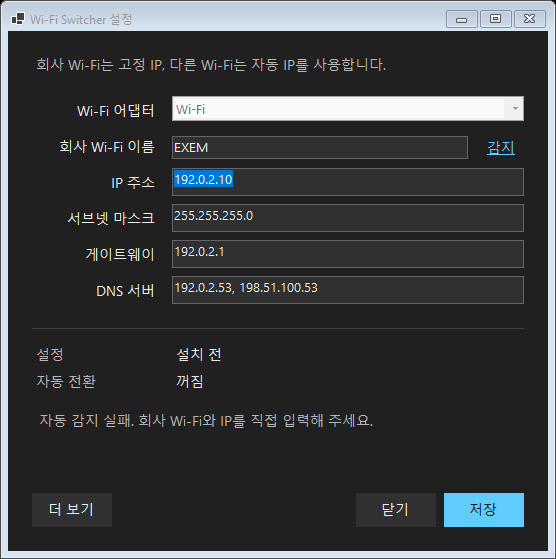
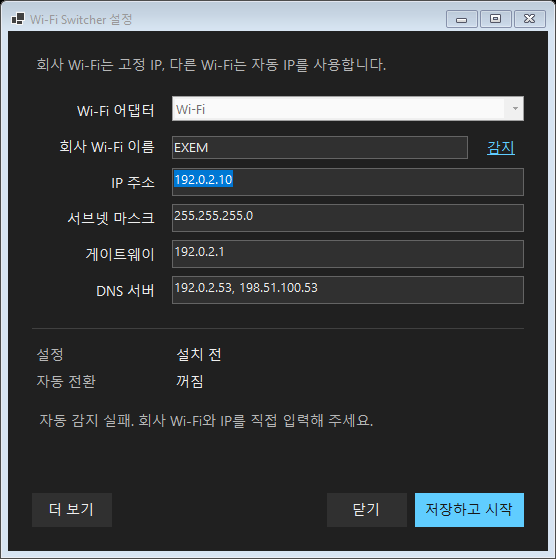
docs: 저장 후 자동 시작 화면과 시험판 해시 갱신

Changed region(s): [[0.6421, 0.8819, 0.9173, 0.9428]]

diff --git a/docs/INSTALL-GUIDE.html b/docs/INSTALL-GUIDE.html
@@ -14,7 +14,7 @@
 <p>이 가이드는 아래 이름의 <strong>Windows x64 시험판</strong>을 기준으로 합니다. HTML은 안내 파일이며 설치 파일은 별도로 필요합니다.</p><div class="filename">WifiProfileSwitcher-Setup-0.2.0-alpha.3.exe</div>
 <ol><li>만든 사람에게 직접 받았거나, 조직에서 승인한 전달 경로로 받은 파일인지 확인하세요.</li><li>파일 탐색기의 <strong>다운로드</strong> 폴더에 저장하세요. 압축을 풀거나 다른 프로그램을 설치할 필요는 없습니다.</li><li>회사 Wi-Fi에 연결하고 기존 고정 IP 설정으로 정상 연결되는 PC에서 시험하세요.</li></ol>
 <p class="small">현재 공개된 이전 릴리즈 ZIP은 설치 방법이 다릅니다. 이 가이드의 EXE와 혼동하지 마세요.</p>
-<details class="filecheck"><summary>선택: 명령어 없이 파일이 같은지 확인하기</summary><p>아래에서 EXE를 선택하면 브라우저 안에서 SHA-256을 계산합니다. 파일을 업로드하지 않습니다. 일치는 전달받은 파일이 개발자가 만든 파일과 같다는 뜻이며, 안전성 인증이나 회사의 실행 승인을 대신하지 않습니다.</p><label for="verify">확인할 EXE 파일</label><input id="verify" type="file" accept=".exe"><output id="hashResult" aria-live="polite"></output><p class="small">기준 크기: 100,674,395바이트 · 기준 SHA-256</p><div class="filename">a2da93b2d097fec4f81666730843729892a099d0cae36f0361009bef2fac776a</div></details>
+<details class="filecheck"><summary>선택: 명령어 없이 파일이 같은지 확인하기</summary><p>아래에서 EXE를 선택하면 브라우저 안에서 SHA-256을 계산합니다. 파일을 업로드하지 않습니다. 일치는 전달받은 파일이 개발자가 만든 파일과 같다는 뜻이며, 안전성 인증이나 회사의 실행 승인을 대신하지 않습니다.</p><label for="verify">확인할 EXE 파일</label><input id="verify" type="file" accept=".exe"><output id="hashResult" aria-live="polite"></output><p class="small">기준 SHA-256</p><div class="filename">c196fd665ad223cb74bdb94d6d1f7b9bc4a17cce6d83c5de4a7ec5375ba1ed8a</div></details>
 </section>
 <section id="edge"><span class="number">02 · 브라우저에서 파일을 저장하지 못할 때</span><h2>Edge에서 ‘유지’를 찾으세요</h2><p>“일반적으로 다운로드되지 않습니다”처럼 <strong>알려지지 않은 파일에 대한 평판 경고</strong>가 표시되고, 파일 출처와 실행 승인을 확인한 경우의 절차입니다. 경고가 없으면 <a href="#run">다음 단계</a>로 넘어가세요.</p>
[1 lines of base64/hex data omitted]
@@ -56,5 +56,5 @@ document.querySelectorAll('.zoom').forEach(b=>b.addEventListener('click',()=>{co
 document.querySelector('#closeImage').onclick=()=>dialog.close();
 dialog.addEventListener('click',e=>{if(e.target===dialog){const r=dialog.getBoundingClientRect();if(e.clientX<r.left||e.clientX>r.right||e.clientY<r.top||e.clientY>r.bottom)dialog.close();}});
 document.querySelector('#copyReport').onclick=async()=>{const t=document.querySelector('#report'),s=document.querySelector('#copyStatus');try{await navigator.clipboard.writeText(t.value);s.textContent='양식을 복사했습니다.';}catch{t.focus();t.select();s.textContent='양식을 선택했습니다. Ctrl+C로 복사하세요.';}};
[2 lines of base64/hex data omitted]
 </script></body></html>

diff --git a/docs/screenshots/README.md b/docs/screenshots/README.md
@@ -2,4 +2,4 @@
 
 - `windows-more-info.png`, `windows-run-anyway.png`: [ASUS의 Windows SmartScreen 안내](https://www.asus.com/support/faq/1053651/). Windows 경고의 버튼 위치를 보여 주는 예시이며 이미지의 앱 이름은 이 프로젝트와 다릅니다.
 - `windows-uac.png`: [Microsoft의 관리자 승인 안내](https://learn.microsoft.com/en-us/windows/security/application-security/application-control/user-account-control/). 실제 앱 이름과 게시자 표시는 다릅니다.
-- `setup-manual.png`, `setup-saved.png`: Windows에서 실행한 설정 창. 캡처용 SSID와 문서용 IP를 사용합니다.
+- `setup-manual.png`, `setup-saved.png`, `setup-blocked.png`: Windows에서 실행한 설정 창. 캡처용 SSID와 문서용 IP를 사용합니다.

diff --git a/docs/MANUAL-SETUP.md b/docs/MANUAL-SETUP.md
@@ -13,3 +13,5 @@
 기존 설치의 설정 저장은 서비스 프로그램 자체를 업데이트하지 않습니다. 이전 시험판이 설치되어 있다면 필요한 복구를 먼저 수행하고 설정을 안전한 곳에 기록한 뒤, ‘더 보기 → 앱 제거’ 후 새 EXE로 설치하세요. 제거하면 설정과 최초 백업도 삭제됩니다. 현재 IP는 유지됩니다.
 
 UI-PREVIEW.html은 버튼을 눌러 보는 HTML 미리보기입니다. Windows 실행 캡처가 아니며 실제 네트워크를 바꾸지 않습니다.
+
+![감지 실패 시 설정은 저장되고 다시 시도할 수 있는 화면](screenshots/setup-blocked.png)
